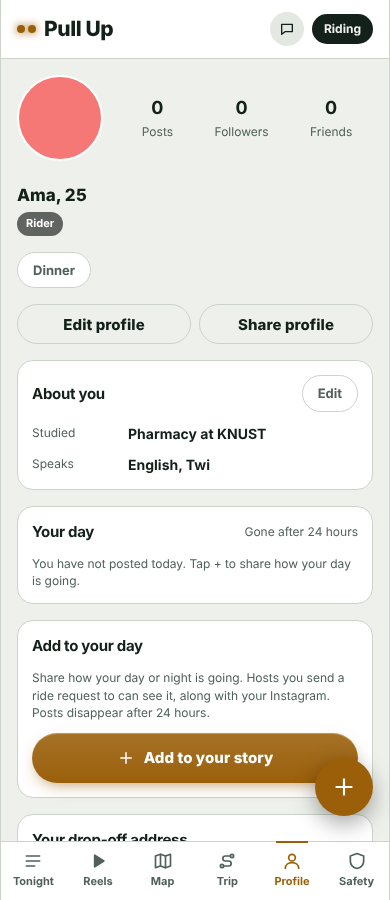
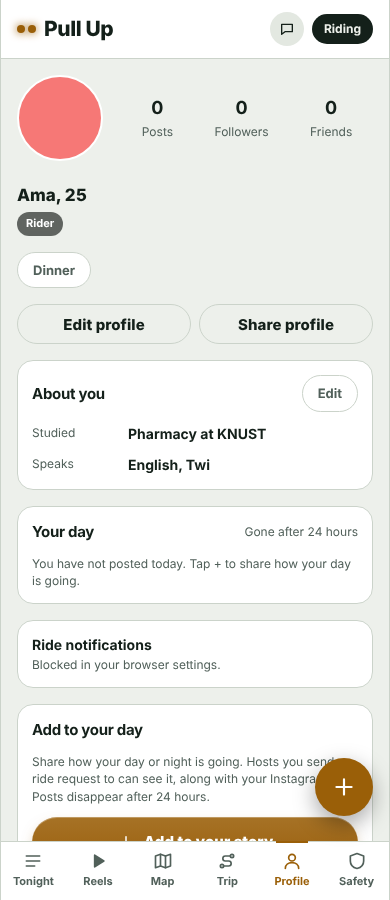
Web push notifications (PWA manifest, service worker, /api/push), notify on request, accept, chat
Claude-Session: https://claude.ai/code/session_01Ek7i7cmztZMuZp5dksaMai

Changed region(s): [[0.0308, 0.6844, 0.9231, 0.9333], [0.0308, 0.8711, 0.0615, 0.9022]]

diff --git a/index.html b/index.html
@@ -1,4 +1,5 @@
 <!doctype html><html><head><meta charset="utf-8"><meta name="viewport" content="width=device-width,initial-scale=1,viewport-fit=cover"><style>:root{color-scheme:light}body{margin:0}</style></head><body><title>Pull Up</title>
+<link rel="manifest" href="/manifest.webmanifest"><meta name="theme-color" content="#0e0e10"><link rel="apple-touch-icon" href="/icon-192.png">
 <link rel="preconnect" href="https://fonts.googleapis.com">
 <link rel="preconnect" href="https://fonts.gstatic.com" crossorigin>
 <link href="https://fonts.googleapis.com/css2?family=Bricolage+Grotesque:opsz,wght@12..96,500;12..96,700;12..96,800&family=DM+Sans:wght@400;500;700&family=JetBrains+Mono:wght@500;700&display=swap" rel="stylesheet">
@@ -1096,6 +1097,7 @@ function viewProfile(){
   if(SB&&!S.myPostsLoaded){S.myPostsLoaded=true;setTimeout(loadMyPosts,0);}
   if(SB&&!S.fcSelf&&A.user){S.fcSelf=true;SB.rpc('follower_counts',{host_ids:[A.user.id]}).then(c=>{((c&&c.data)||[]).forEach(x=>{S.fcounts[x.host_id]=Number(x.n);});if(S.tab==='profile'&&!S.sheet)renderView();}).catch(()=>{});}
   return `${head}
+  ${pushCard()}
   ${myPageHTML()}
   ${host?'':`<section class="panel"><h3>Your drop-off address</h3>
     ${S.dropLL?`<div class="toggle" style="padding:2px 0"><div><b>${esc(S.dropName||'Saved address')}</b><div class="note">Used as the last stop on every plan</div></div><button class="chip" data-act="dropclear">Remove</button></div>`:'<p class="note">Search the area or landmark where you want to be dropped.</p>'}
@@ -1103,10 +1105,49 @@ function viewProfile(){
     <p class="note">Saved on this device only. Hosts never see it. Only you and your trusted contacts do.</p></section>`}
   <section class="panel"><h3>${host?'You are hosting':'You are riding'}</h3><p class="note">${host?'You see riders who ask for your ride. To find a ride yourself, switch to riding.':'You see hosts parked after events. To offer rides in your own car, switch to hosting.'}</p><button class="btn ghost" data-act="switchrole">Switch to ${host?'riding':'hosting'}</button>${SB&&A.user?'<button class="btn ghost" data-act="auout">Sign out</button>':''}</section>`;
 }
+function pushSupported(){return !!(window.isSecureContext&&'serviceWorker' in navigator&&'PushManager' in window&&'Notification' in window);}
+function pushState(){return !pushSupported()?'off-unsupported':(Notification.permission==='denied'?'denied':(S.pushOn?'on':'off'));}
+async function pushCheck(){
+  if(!pushSupported()||S.pushChecked)return;S.pushChecked=true;
+  try{const reg=await navigator.serviceWorker.getRegistration('/');const sub=reg&&await reg.pushManager.getSubscription();if(sub&&Notification.permission==='granted'){S.pushOn=true;if(S.tab==='profile'||S.tab==='safety')renderView();}}catch(e){}
+}
+async function enablePush(){
+  const A=S.auth;if(!SB||!A.user){toast('Sign in first');return;}
+  if(!pushSupported()){toast('On iPhone, add Pull Up to your Home Screen first, then turn this on.');return;}
+  try{
+    const perm=await Notification.requestPermission();
+    if(perm!=='granted'){toast('Notifications are blocked. Allow them in your browser settings.');renderView();return;}
+    const k=await (await fetch('/api/push')).json();
+    if(!k.key){toast('Notifications are not set up on the server yet.');return;}
+    const b64=k.key.replace(/-/g,'+').replace(/_/g,'/'),raw=atob(b64+'='.repeat((4-b64.length%4)%4)),key=Uint8Array.from(raw,c=>c.charCodeAt(0));
+    const reg=await navigator.serviceWorker.register('/sw.js');await navigator.serviceWorker.ready;
+    let sub=await reg.pushManager.getSubscription();
+    if(!sub)sub=await reg.pushManager.subscribe({userVisibleOnly:true,applicationServerKey:key});
+    const j=sub.toJSON();
+    const r=await SB.from('push_subs').upsert({endpoint:j.endpoint,user_id:A.user.id,p256dh:j.keys.p256dh,auth:j.keys.auth});
+    if(r&&r.error)throw r.error;
+    S.pushOn=true;toast('Notifications on');renderView();
+  }catch(e){toast(/push_subs/i.test((e&&e.message)||'')?'Run supabase-step20-event-tag.sql first.':'Could not turn on notifications.');}
+}
+async function disablePush(){
+  try{const reg=await navigator.serviceWorker.getRegistration('/');const sub=reg&&await reg.pushManager.getSubscription();if(sub){const ep=sub.endpoint;await sub.unsubscribe();if(SB)await SB.from('push_subs').delete().eq('endpoint',ep);}}catch(e){}
+  S.pushOn=false;toast('Notifications off');renderView();
+}
+async function notify(type,ref){
+  try{if(!SB||!S.auth.user)return;const ss=await SB.auth.getSession(),t=ss&&ss.data&&ss.data.session&&ss.data.session.access_token;if(!t)return;
+    fetch('/api/push',{method:'POST',headers:{'Content-Type':'application/json',Authorization:'Bearer '+t},body:JSON.stringify({type,ref})}).catch(()=>{});}catch(e){}
+}
+function pushCard(){
+  if(!SB||!S.auth.user)return '';
+  setTimeout(pushCheck,0);
+  const st=pushState(),on=st==='on';
+  return `<section class="panel"><div class="toggle" style="padding:0"><div><b>Ride notifications</b><div class="note">${st==='denied'?'Blocked in your browser settings.':st==='off-unsupported'?'On iPhone, add Pull Up to your Home Screen to turn this on.':'Get told when a request comes in, when you are accepted, and when your ride messages you.'}</div></div>${st==='denied'||st==='off-unsupported'?'':`<button class="sw" role="switch" aria-checked="${on}" data-act="pushtoggle"></button>`}</div></section>`;
+}
 function viewSafety(){
   const st=S.settings;
   const sw=(on,act,id)=>`<button class="sw" role="switch" aria-checked="${on}" data-act="${act}" data-id="${id||''}"></button>`;
   return `<div class="hero"><span class="eyebrow">Safety</span><h2>Set it once, it runs on every ride</h2></div>
+  ${pushCard()}
   <section class="panel"><h3>Trusted contacts</h3>
     ${CONTACTS.map(c=>`<div class="toggle" style="padding:2px 0"><div class="crewline">${av(c.name,34)}<div><b>${esc(c.name)}</b><div class="note">${esc(c.phone)}</div></div></div><span style="display:flex;gap:8px;align-items:center">${sw(st.share[c.id]!==false,'tglc',c.id)}<button class="chip" data-act="ctdel" data-id="${c.id}" aria-label="Remove ${esc(c.name)}">Remove</button></span></div>`).join('')||'<p class="note">No contacts yet.</p>'}
     <div class="field"><input id="ct-name" placeholder="Name (e.g. Ama)" maxlength="40"><input id="ct-phone" type="tel" inputmode="tel" placeholder="Phone, e.g. 024 123 4567" maxlength="20" style="margin-top:6px"><button class="btn ghost" data-act="ctadd" style="margin-top:6px">Add contact</button></div>
@@ -1319,7 +1360,7 @@ async function sendChat(){
   c.msgs.push(m);paintChat();
   const r=await SB.from('messages').insert({request_id:c.id,sender_id:S.auth.user.id,body});
   if(r&&r.error){c.msgs=c.msgs.filter(x=>x!==m);paintChat();inp.value=body;toast(/policy|row-level/i.test(r.error.message||'')?'Chat is closed for this ride.':'Message not sent. Try again.');}
-  else{m.pending=false;pollChat();}
+  else{m.pending=false;notify('chat',c.id);pollChat();}
 }
 function sheetChat(){
   const c=S.chat;
@@ -1337,7 +1378,7 @@ async function sendRealRequest(){
     const friend=D.friendOn?{n:F.name.trim().slice(0,40),g:F.gender,a:Number(F.age)||27}:null;
     const r=await SB.from('requests').upsert({plan_id:h.planId,rider_id:A.user.id,friend,status:'pending'},{onConflict:'plan_id,rider_id'}).select('id,status').single();
     if(r.error)throw r.error;
-    S.myReqs[h.planId]={id:r.data.id,status:'pending',plate:null};
+    S.myReqs[h.planId]={id:r.data.id,status:'pending',plate:null};notify('request',r.data.id);
     toast('Request sent to '+h.name);
     renderSheet();renderView();
   }catch(e){toast('Could not send: '+(((e&&e.message)||'try again').slice(0,80)));}
@@ -1354,7 +1395,7 @@ async function decideRequest(id,status){
   if(status==='accepted'&&(r.status!=='pending'))return;
   const res=await SB.from('requests').update({status}).eq('id',id);
   if(res&&res.error){toast('Could not update. Try again.');return;}
-  r.status=status;toast(status==='accepted'?r.name+' accepted':'Declined');renderView();
+  r.status=status;notify(status,id);toast(status==='accepted'?r.name+' accepted':'Declined');renderView();
 }
 async function loadRequests(rows,mine){
   const A=S.auth;if(!SB||!A.user)return false;
@@ -2047,6 +2088,7 @@ function act(a,el,ev){
       navigator.geolocation.getCurrentPosition(p=>{S.locState='ok';S.myLL=[p.coords.latitude,p.coords.longitude];renderView();},()=>toast('Could not get your location. Check the permission.'),{enableHighAccuracy:true,timeout:10000});break;
     case 'follow':{const h=hostById(id);if(h)toggleFollow(h);break;}
     case 'going':toggleGoing(v);break;
+    case 'pushtoggle':if(S.pushOn)disablePush();else enablePush();break;
     case 'reelev':S.reelEv=(S.reelEv===v)?'':v;renderView();break;
     case 'onlyfol':S.onlyFol=!S.onlyFol;renderView();break;
     case 'evt':S.event=v;renderView();break;
@@ -2078,7 +2120,7 @@ function act(a,el,ev){
     case 'aumode':S.auth.mode=v;S.auth.err='';S.auth.status='idle';renderView();break;
     case 'aupw':authPw(v==='up');break;
     case 'auout':authOut();break;
-    case 'auedit':{const m=S.auth.profile;S.auth.form={first_name:m.first_name,age:String(m.age),gender:m.gender,vibes:(m.vibes||[]).slice(),instagram:m.instagram||''};S.auth.editing=true;S.auth.err='';renderView();break;}
+    case 'auedit':{const m=S.auth.profile;S.auth.form={first_name:m.first_name,age:String(m.age),gender:m.gender,vibes:(m.vibes||[]).slice(),instagram:m.instagram||'',...Object.fromEntries(ABOUT.map(a=>[a[0],m[a[0]]||'']))};S.auth.editing=true;S.auth.err='';renderView();break;}
     case 'pfcancel':S.auth.editing=false;S.auth.err='';S.auth.file=null;S.auth.preview='';renderView();break;
     case 'pfgender':S.auth.form.gender=v;renderView();break;
     case 'pfvibe':{const a=S.auth.form.vibes,i=a.indexOf(v);i>-1?a.splice(i,1):a.push(v);renderView();break;}

diff --git a/t_vlog.html b/t_vlog.html
@@ -1,4 +1,5 @@
 <!doctype html><html><head><meta charset="utf-8"><meta name="viewport" content="width=device-width,initial-scale=1,viewport-fit=cover"><style>:root{color-scheme:light}body{margin:0}</style></head><body><title>Pull Up</title>
+<link rel="manifest" href="/manifest.webmanifest"><meta name="theme-color" content="#0e0e10"><link rel="apple-touch-icon" href="/icon-192.png">
 <link rel="preconnect" href="https://fonts.googleapis.com">
 <link rel="preconnect" href="https://fonts.gstatic.com" crossorigin>
 <link href="https://fonts.googleapis.com/css2?family=Bricolage+Grotesque:opsz,wght@12..96,500;12..96,700;12..96,800&family=DM+Sans:wght@400;500;700&family=JetBrains+Mono:wght@500;700&display=swap" rel="stylesheet">
@@ -1096,6 +1097,7 @@ function viewProfile(){
   if(SB&&!S.myPostsLoaded){S.myPostsLoaded=true;setTimeout(loadMyPosts,0);}
   if(SB&&!S.fcSelf&&A.user){S.fcSelf=true;SB.rpc('follower_counts',{host_ids:[A.user.id]}).then(c=>{((c&&c.data)||[]).forEach(x=>{S.fcounts[x.host_id]=Number(x.n);});if(S.tab==='profile'&&!S.sheet)renderView();}).catch(()=>{});}
   return `${head}
+  ${pushCard()}
   ${myPageHTML()}
   ${host?'':`<section class="panel"><h3>Your drop-off address</h3>
     ${S.dropLL?`<div class="toggle" style="padding:2px 0"><div><b>${esc(S.dropName||'Saved address')}</b><div class="note">Used as the last stop on every plan</div></div><button class="chip" data-act="dropclear">Remove</button></div>`:'<p class="note">Search the area or landmark where you want to be dropped.</p>'}
@@ -1103,10 +1105,49 @@ function viewProfile(){
     <p class="note">Saved on this device only. Hosts never see it. Only you and your trusted contacts do.</p></section>`}
   <section class="panel"><h3>${host?'You are hosting':'You are riding'}</h3><p class="note">${host?'You see riders who ask for your ride. To find a ride yourself, switch to riding.':'You see hosts parked after events. To offer rides in your own car, switch to hosting.'}</p><button class="btn ghost" data-act="switchrole">Switch to ${host?'riding':'hosting'}</button>${SB&&A.user?'<button class="btn ghost" data-act="auout">Sign out</button>':''}</section>`;
 }
+function pushSupported(){return !!(window.isSecureContext&&'serviceWorker' in navigator&&'PushManager' in window&&'Notification' in window);}
+function pushState(){return !pushSupported()?'off-unsupported':(Notification.permission==='denied'?'denied':(S.pushOn?'on':'off'));}
+async function pushCheck(){
+  if(!pushSupported()||S.pushChecked)return;S.pushChecked=true;
+  try{const reg=await navigator.serviceWorker.getRegistration('/');const sub=reg&&await reg.pushManager.getSubscription();if(sub&&Notification.permission==='granted'){S.pushOn=true;if(S.tab==='profile'||S.tab==='safety')renderView();}}catch(e){}
+}
+async function enablePush(){
+  const A=S.auth;if(!SB||!A.user){toast('Sign in first');return;}
+  if(!pushSupported()){toast('On iPhone, add Pull Up to your Home Screen first, then turn this on.');return;}
+  try{
+    const perm=await Notification.requestPermission();
+    if(perm!=='granted'){toast('Notifications are blocked. Allow them in your browser settings.');renderView();return;}
+    const k=await (await fetch('/api/push')).json();
+    if(!k.key){toast('Notifications are not set up on the server yet.');return;}
+    const b64=k.key.replace(/-/g,'+').replace(/_/g,'/'),raw=atob(b64+'='.repeat((4-b64.length%4)%4)),key=Uint8Array.from(raw,c=>c.charCodeAt(0));
+    const reg=await navigator.serviceWorker.register('/sw.js');await navigator.serviceWorker.ready;
+    let sub=await reg.pushManager.getSubscription();
+    if(!sub)sub=await reg.pushManager.subscribe({userVisibleOnly:true,applicationServerKey:key});
+    const j=sub.toJSON();
+    const r=await SB.from('push_subs').upsert({endpoint:j.endpoint,user_id:A.user.id,p256dh:j.keys.p256dh,auth:j.keys.auth});
+    if(r&&r.error)throw r.error;
+    S.pushOn=true;toast('Notifications on');renderView();
+  }catch(e){toast(/push_subs/i.test((e&&e.message)||'')?'Run supabase-step20-event-tag.sql first.':'Could not turn on notifications.');}
+}
+async function disablePush(){
+  try{const reg=await navigator.serviceWorker.getRegistration('/');const sub=reg&&await reg.pushManager.getSubscription();if(sub){const ep=sub.endpoint;await sub.unsubscribe();if(SB)await SB.from('push_subs').delete().eq('endpoint',ep);}}catch(e){}
+  S.pushOn=false;toast('Notifications off');renderView();
+}
+async function notify(type,ref){
+  try{if(!SB||!S.auth.user)return;const ss=await SB.auth.getSession(),t=ss&&ss.data&&ss.data.session&&ss.data.session.access_token;if(!t)return;
+    fetch('/api/push',{method:'POST',headers:{'Content-Type':'application/json',Authorization:'Bearer '+t},body:JSON.stringify({type,ref})}).catch(()=>{});}catch(e){}
+}
+function pushCard(){
+  if(!SB||!S.auth.user)return '';
+  setTimeout(pushCheck,0);
+  const st=pushState(),on=st==='on';
+  return `<section class="panel"><div class="toggle" style="padding:0"><div><b>Ride notifications</b><div class="note">${st==='denied'?'Blocked in your browser settings.':st==='off-unsupported'?'On iPhone, add Pull Up to your Home Screen to turn this on.':'Get told when a request comes in, when you are accepted, and when your ride messages you.'}</div></div>${st==='denied'||st==='off-unsupported'?'':`<button class="sw" role="switch" aria-checked="${on}" data-act="pushtoggle"></button>`}</div></section>`;
+}
 function viewSafety(){
   const st=S.settings;
   const sw=(on,act,id)=>`<button class="sw" role="switch" aria-checked="${on}" data-act="${act}" data-id="${id||''}"></button>`;
   return `<div class="hero"><span class="eyebrow">Safety</span><h2>Set it once, it runs on every ride</h2></div>
+  ${pushCard()}
   <section class="panel"><h3>Trusted contacts</h3>
     ${CONTACTS.map(c=>`<div class="toggle" style="padding:2px 0"><div class="crewline">${av(c.name,34)}<div><b>${esc(c.name)}</b><div class="note">${esc(c.phone)}</div></div></div><span style="display:flex;gap:8px;align-items:center">${sw(st.share[c.id]!==false,'tglc',c.id)}<button class="chip" data-act="ctdel" data-id="${c.id}" aria-label="Remove ${esc(c.name)}">Remove</button></span></div>`).join('')||'<p class="note">No contacts yet.</p>'}
     <div class="field"><input id="ct-name" placeholder="Name (e.g. Ama)" maxlength="40"><input id="ct-phone" type="tel" inputmode="tel" placeholder="Phone, e.g. 024 123 4567" maxlength="20" style="margin-top:6px"><button class="btn ghost" data-act="ctadd" style="margin-top:6px">Add contact</button></div>
@@ -1319,7 +1360,7 @@ async function sendChat(){
   c.msgs.push(m);paintChat();
   const r=await SB.from('messages').insert({request_id:c.id,sender_id:S.auth.user.id,body});
   if(r&&r.error){c.msgs=c.msgs.filter(x=>x!==m);paintChat();inp.value=body;toast(/policy|row-level/i.test(r.error.message||'')?'Chat is closed for this ride.':'Message not sent. Try again.');}
-  else{m.pending=false;pollChat();}
+  else{m.pending=false;notify('chat',c.id);pollChat();}
 }
 function sheetChat(){
   const c=S.chat;
@@ -1337,7 +1378,7 @@ async function sendRealRequest(){
     const friend=D.friendOn?{n:F.name.trim().slice(0,40),g:F.gender,a:Number(F.age)||27}:null;
     const r=await SB.from('requests').upsert({plan_id:h.planId,rider_id:A.user.id,friend,status:'pending'},{onConflict:'plan_id,rider_id'}).select('id,status').single();
     if(r.error)throw r.error;
-    S.myReqs[h.planId]={id:r.data.id,status:'pending',plate:null};
+    S.myReqs[h.planId]={id:r.data.id,status:'pending',plate:null};notify('request',r.data.id);
     toast('Request sent to '+h.name);
     renderSheet();renderView();
   }catch(e){toast('Could not send: '+(((e&&e.message)||'try again').slice(0,80)));}
@@ -1354,7 +1395,7 @@ async function decideRequest(id,status){
   if(status==='accepted'&&(r.status!=='pending'))return;
   const res=await SB.from('requests').update({status}).eq('id',id);
   if(res&&res.error){toast('Could not update. Try again.');return;}
-  r.status=status;toast(status==='accepted'?r.name+' accepted':'Declined');renderView();
+  r.status=status;notify(status,id);toast(status==='accepted'?r.name+' accepted':'Declined');renderView();
 }
 async function loadRequests(rows,mine){
   const A=S.auth;if(!SB||!A.user)return false;
@@ -2047,6 +2088,7 @@ function act(a,el,ev){
       navigator.geolocation.getCurrentPosition(p=>{S.locState='ok';S.myLL=[p.coords.latitude,p.coords.longitude];renderView();},()=>toast('Could not get your location. Check the permission.'),{enableHighAccuracy:true,timeout:10000});break;
     case 'follow':{const h=hostById(id);if(h)toggleFollow(h);break;}
     case 'going':toggleGoing(v);break;
+    case 'pushtoggle':if(S.pushOn)disablePush();else enablePush();break;
     case 'reelev':S.reelEv=(S.reelEv===v)?'':v;renderView();break;
     case 'onlyfol':S.onlyFol=!S.onlyFol;renderView();break;
     case 'evt':S.event=v;renderView();break;
@@ -2078,7 +2120,7 @@ function act(a,el,ev){
     case 'aumode':S.auth.mode=v;S.auth.err='';S.auth.status='idle';renderView();break;
     case 'aupw':authPw(v==='up');break;
     case 'auout':authOut();break;
-    case 'auedit':{const m=S.auth.profile;S.auth.form={first_name:m.first_name,age:String(m.age),gender:m.gender,vibes:(m.vibes||[]).slice(),instagram:m.instagram||''};S.auth.editing=true;S.auth.err='';renderView();break;}
+    case 'auedit':{const m=S.auth.profile;S.auth.form={first_name:m.first_name,age:String(m.age),gender:m.gender,vibes:(m.vibes||[]).slice(),instagram:m.instagram||'',...Object.fromEntries(ABOUT.map(a=>[a[0],m[a[0]]||'']))};S.auth.editing=true;S.auth.err='';renderView();break;}
     case 'pfcancel':S.auth.editing=false;S.auth.err='';S.auth.file=null;S.auth.preview='';renderView();break;
     case 'pfgender':S.auth.form.gender=v;renderView();break;
     case 'pfvibe':{const a=S.auth.form.vibes,i=a.indexOf(v);i>-1?a.splice(i,1):a.push(v);renderView();break;}

diff --git a/api/push.js b/api/push.js
@@ -1,0 +1,46 @@
+// Vercel serverless function: sends web-push notifications for ride requests, answers and chat.
+// Env vars (Vercel > Settings > Environment Variables):
+//   VAPID_PUBLIC_KEY, VAPID_PRIVATE_KEY   (generate: npx web-push generate-vapid-keys)
+//   SUPABASE_URL, SUPABASE_SERVICE_KEY    (service_role key, server only, never in the page)
+// The caller must be signed in and be a real participant of the request, so nobody can notify arbitrary users.
+const webpush = require('web-push');
+const J = (res, code, o) => res.status(code).json(o);
+
+module.exports = async (req, res) => {
+  const pub = process.env.VAPID_PUBLIC_KEY, priv = process.env.VAPID_PRIVATE_KEY;
+  const url = process.env.SUPABASE_URL, svc = process.env.SUPABASE_SERVICE_KEY;
+  if (req.method === 'GET') return J(res, 200, { key: pub || '' });
+  if (req.method !== 'POST') return J(res, 405, { error: 'method' });
+  if (!pub || !priv || !url || !svc) return J(res, 200, { sent: 0, note: 'not configured' });
+  try {
+    const token = String(req.headers.authorization || '').replace(/^Bearer\s+/i, '');
+    if (!token) return J(res, 401, { error: 'auth' });
+    const body = typeof req.body === 'string' ? JSON.parse(req.body || '{}') : (req.body || {});
+    const type = String(body.type || ''), ref = String(body.ref || '');
+    if (!/^[0-9a-f-]{36}$/i.test(ref) || !['request', 'accepted', 'declined', 'chat'].includes(type)) return J(res, 400, { error: 'bad' });
+    const H = { apikey: svc, Authorization: 'Bearer ' + svc };
+    const ur = await fetch(url + '/auth/v1/user', { headers: { apikey: svc, Authorization: 'Bearer ' + token } });
+    if (!ur.ok) return J(res, 401, { error: 'auth' });
+    const me = (await ur.json()).id;
+    const rr = await fetch(url + '/rest/v1/requests?id=eq.' + ref + '&select=id,rider_id,status,plan:plans(host_id)', { headers: H });
+    const row = rr.ok ? (await rr.json())[0] : null;
+    if (!row || !row.plan) return J(res, 404, { error: 'none' });
+    const rider = row.rider_id, host = row.plan.host_id;
+    let to = null, title = 'Pull Up', text = '', link = '/';
+    if (type === 'request' && me === rider && row.status === 'pending') { to = host; title = 'New ride request'; text = 'Someone wants to ride with you. Open Pull Up to see.'; }
+    else if (type === 'accepted' && me === host && row.status === 'accepted') { to = rider; title = 'You are in'; text = 'Your host accepted. Open Pull Up for the plate and pickup spot.'; }
+    else if (type === 'declined' && me === host && row.status === 'declined') { to = rider; title = 'Request update'; text = 'This host cannot take you tonight. Other plans may be nearby.'; }
+    else if (type === 'chat' && (me === rider || me === host) && row.status === 'accepted') { to = me === rider ? host : rider; title = 'New message'; text = 'You have a message about tonight’s ride.'; }
+    if (!to) return J(res, 403, { error: 'not allowed' });
+    const sr = await fetch(url + '/rest/v1/push_subs?user_id=eq.' + to + '&select=endpoint,p256dh,auth', { headers: H });
+    const subs = sr.ok ? await sr.json() : [];
+    webpush.setVapidDetails('mailto:hello@pullup.app', pub, priv);
+    const payload = JSON.stringify({ title, body: text, url: link, tag: type + ref });
+    let sent = 0;
+    await Promise.all(subs.map(async s => {
+      try { await webpush.sendNotification({ endpoint: s.endpoint, keys: { p256dh: s.p256dh, auth: s.auth } }, payload, { TTL: 3600 }); sent++; }
+      catch (e) { if (e && (e.statusCode === 404 || e.statusCode === 410)) await fetch(url + '/rest/v1/push_subs?endpoint=eq.' + encodeURIComponent(s.endpoint), { method: 'DELETE', headers: H }); }
+    }));
+    return J(res, 200, { sent });
+  } catch (e) { return J(res, 200, { sent: 0, note: 'error' }); }
+};

diff --git a/sw.js b/sw.js
@@ -1,0 +1,13 @@
+self.addEventListener('install',()=>self.skipWaiting());
+self.addEventListener('activate',e=>e.waitUntil(self.clients.claim()));
+self.addEventListener('push',e=>{
+  let d={};try{d=e.data?e.data.json():{};}catch(x){}
+  e.waitUntil(self.registration.showNotification(d.title||'Pull Up',{body:d.body||'',icon:'/icon-192.png',badge:'/icon-192.png',tag:d.tag,data:{url:d.url||'/'}}));
+});
+self.addEventListener('notificationclick',e=>{
+  e.notification.close();
+  e.waitUntil(self.clients.matchAll({type:'window',includeUncontrolled:true}).then(l=>{
+    for(const c of l){if('focus' in c)return c.focus();}
+    return self.clients.openWindow((e.notification.data&&e.notification.data.url)||'/');
+  }));
+});
